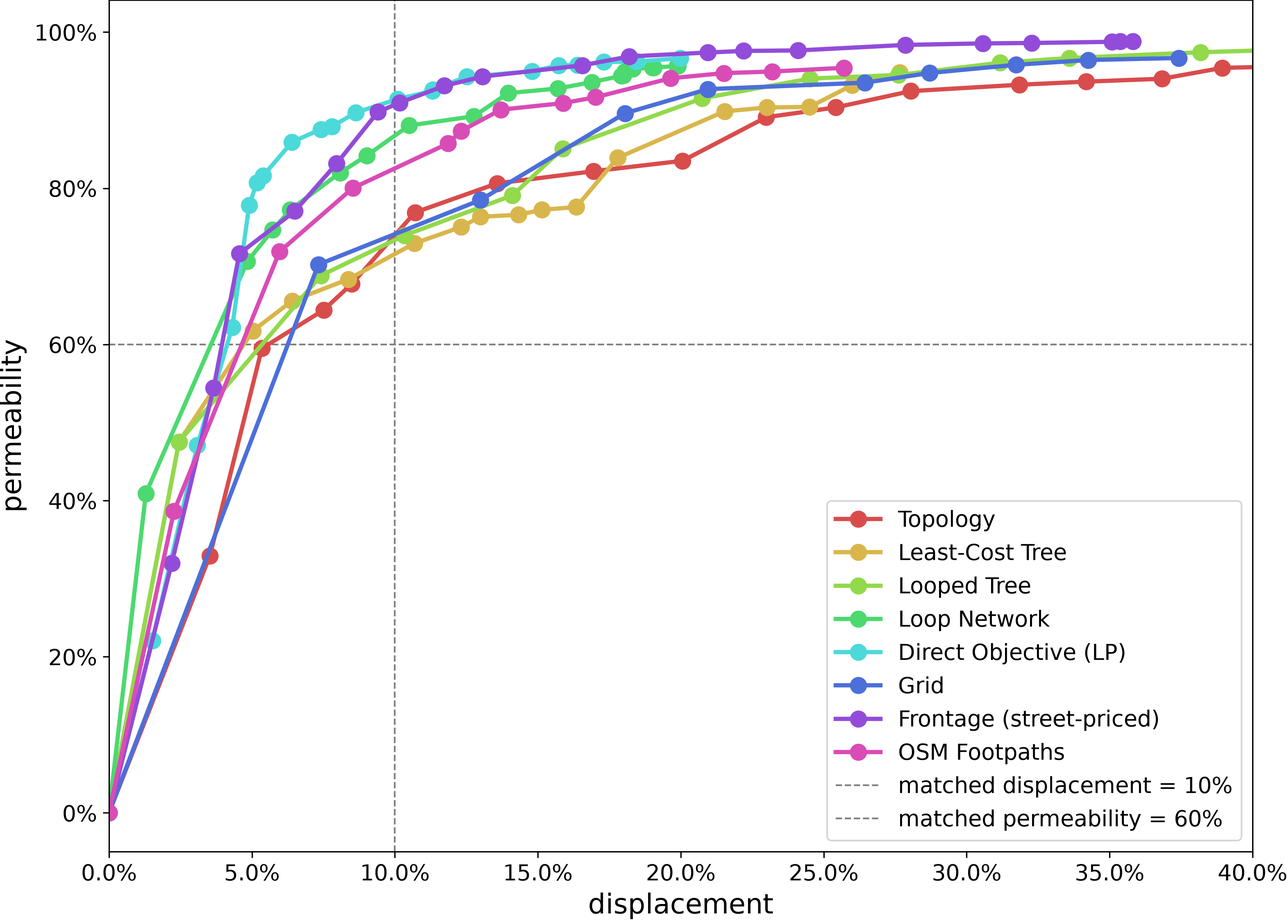
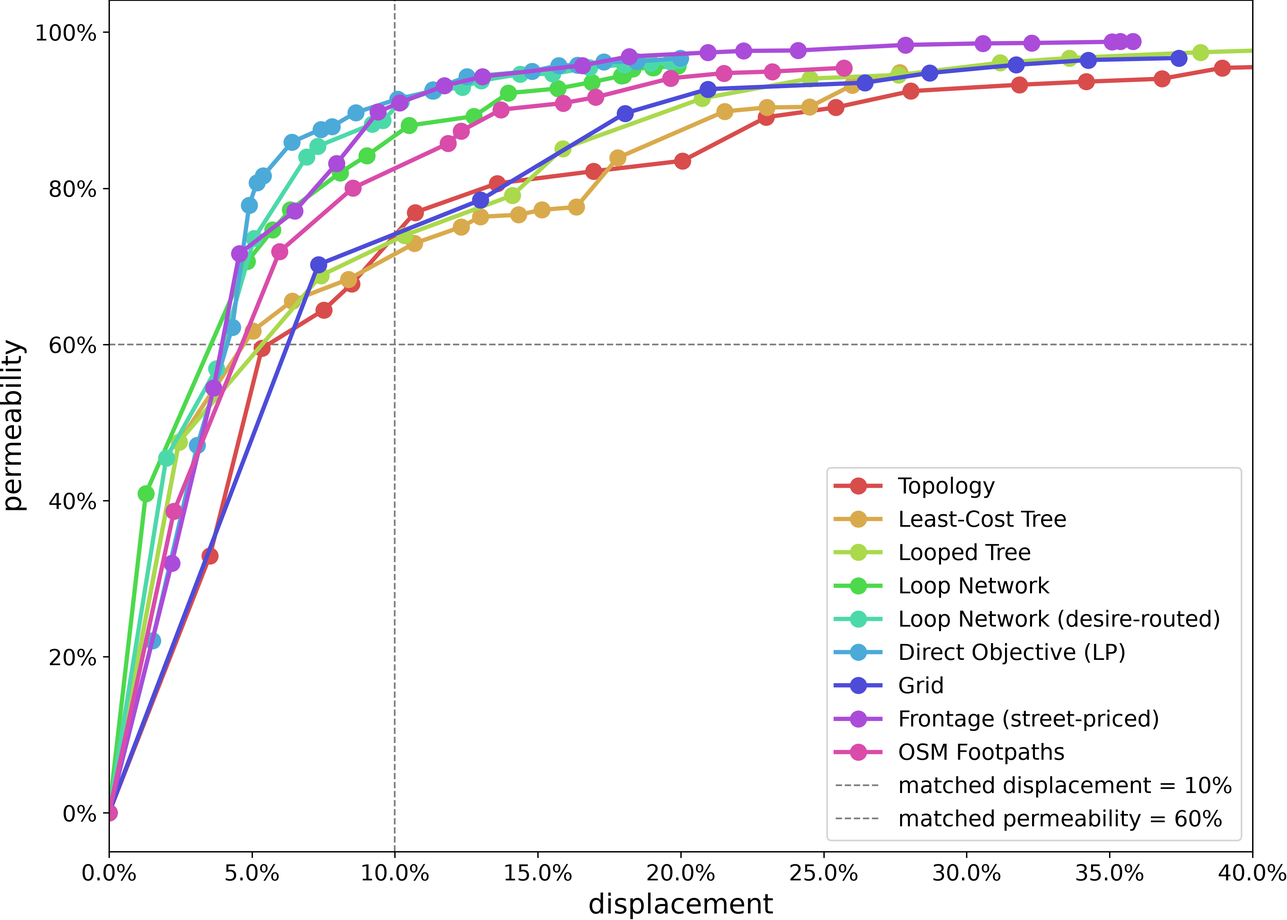
The desire-routed Loop Network joins the examples; regenerated cold
cycle_native_betweenness_contrast runs in depth_density (Cape Town and
Nairobi), method_comparison and explore (and explore_small, its parity
fixture), beside plain cycle_native so the field's lift is visible. It
gets a site page and a display name, "Loop Network (desire-routed)".

Regenerated from a cold cache (the Block and Proposal identity fixes
changed every key). Counts that had been typed into tests now come from
the config.

Claude-Session: https://claude.ai/code/session_01RoNpoEMZ1kz2hogCsAsmXJ

diff --git a/scripts/gen_site_pages.py b/scripts/gen_site_pages.py
@@ -1136,6 +1136,20 @@ METHODS = [
       "reads as a strong second to the LP rather than as the different thing it is.",
       idea="the cycle, not the spur — bridgeless by construction",
       mc_key="cycle_native", mb_key="cycle_native", conf="cycle_native"),
+    M("cycle_native_betweenness_contrast", "Loop Network (desire-routed)",
+      "The Loop Network, with each candidate loop routed along the lanes people would walk. "
+      "Before any road is placed, every home's best walking route — to the street, and to every "
+      "other home — is traced through the gaps between buildings, with routes that pay for "
+      "turning and keep their distance from walls. Where many routes run, beyond what the same "
+      "block with its buildings removed would send there, the ground is a desire line.\n\n"
+      "The routing grid is then made cheaper along those lines, so the two paths of every "
+      "candidate loop bend toward them. What gets built is still the Loop Network's choice — "
+      "each loop is scored by permeability gain per home displaced — only the shape of the "
+      "candidates follows the lanes. The pull is deliberately gentle: a stronger one drags roads "
+      "off the best loops.",
+      idea="the Loop Network, its loops bent toward where people would walk",
+      mc_key="cycle_native_betweenness_contrast", mb_key="cycle_native_betweenness_contrast",
+      conf="cycle_native_betweenness_contrast"),
     M("topology", "Topology",
       "The prior art: a whole-graph reblocker that solves the block in one shot rather than adding "
       "roads greedily. It is **single-block only** — a multi-block region gives it a disconnected "

diff --git a/tests/test_example_block.py b/tests/test_example_block.py
@@ -52,9 +52,9 @@ def test_pin_is_declared_once() -> None:
 
 
 def test_example_method_names_includes_osm_footpaths() -> None:
-    """`conf/example/explore.yaml` declares five methods; `osm_footpaths` -- the real as-built
+    """`conf/example/explore.yaml` declares its methods; `osm_footpaths` -- the real as-built
     informal network, injected from a committed OSM snapshot exactly as
-    scripts/gen_example.py:175-182 injects it -- is the sixth, and the reference the whole
+    scripts/gen_example.py:175-182 injects it -- is one more, and the reference the whole
     comparison is measured against, not a competitor. A loader that only reads the declared list
     silently returns five; this is the guard against exactly that.
 
@@ -71,6 +71,6 @@ def test_example_method_names_includes_osm_footpaths() -> None:
 
     names = example_method_names()
     assert set(names) == {
-        "clearance_looped", "euclidean_grid", "cycle_native",
+        "clearance_looped", "euclidean_grid", "cycle_native", "cycle_native_betweenness_contrast",
         "greedy_arterial_access_displacement", "osm_footpaths",
     }

diff --git a/tests/test_frontier_bundle.py b/tests/test_frontier_bundle.py
@@ -43,12 +43,11 @@ def bundle() -> dict[str, Any]:
 
 
 def test_every_curve_is_internally_consistent(bundle: dict[str, Any]) -> None:
-    # 5, not 8: the bundle is baked from `_example_block.py`'s pin, which moved to the `explore`
-    # variant on 2026-09-20. That variant runs four methods plus the `osm_footpaths` reference;
-    # the 8 was `method_comparison`'s seven-plus-reference, and `method_comparison` keeps the two
-    # this block cannot run -- `topology` (NodeNotFound at 6,619 parcels) and `resistance_lp`
-    # (dropped for a 6.2 m mean segment; see conf/example/explore.yaml).
-    assert len(bundle["methods"]) == 5
+    # The bundle is baked from `_example_block.py`'s pin, the `explore` variant: exactly its
+    # methods plus the `osm_footpaths` reference, read from the config rather than typed here.
+    from scripts._example_block import example_method_names
+
+    assert set(bundle["methods"]) == set(example_method_names())
     for name, c in bundle["methods"].items():
         n = len(c["road_m"])
         assert len(c["displacement"]) == len(c["permeability"]) == n, name

diff --git a/tests/test_gen_site_pages.py b/tests/test_gen_site_pages.py
@@ -102,7 +102,7 @@ def test_published_method_count_is_generated_not_typed() -> None:
     # is used in prose -- e.g. a comment explaining what the kwarg does -- and silently miscounts.
     published = len(re.findall(r'^    M\("[a-z_]+"', src, flags=re.M)) - len(
         re.findall(r'M\("[a-z_]+"[^)]*?published=False', src, flags=re.S))
-    assert published == 10, f"expected 10 published methods, registry says {published}"
+    assert published == 11, f"expected 11 published methods, registry says {published}"
     intro = (ROOT / "docs" / "_partials" / "intro.md").read_text(encoding="utf-8")
     assert "<!-- METHODCOUNT -->" in intro
     # Every word _COUNT_WORDS could produce, both cases -- not a hand-picked subset. A hardcoded

diff --git a/scripts/_example_block.py b/scripts/_example_block.py
@@ -43,7 +43,7 @@ PINNED_METHOD = "clearance_looped"
 # The TEST fixture: the same pipeline on a 263-parcel block. Parity tests pass this rather than
 # re-deriving the shipped 6,619-parcel artifact, which MEASURED at 2,882 s of a 2,895 s test --
 # `tests/conftest.py` gives every session a cold `REBLOCK_CACHE_DIR` by design, so nothing is
-# cached across runs and every method is re-proposed. Same five methods, same order, ~105 s.
+# cached across runs and every method is re-proposed. Same methods, same order.
 # See `conf/example/explore_small.yaml` for the measurements and for why it is not
 # `method_comparison` (topology, 377 s on this block, which `explore` does not run).
 TEST_VARIANT = "explore_small"

diff --git a/src/reblock/method_labels.py b/src/reblock/method_labels.py
@@ -18,6 +18,7 @@ FRIENDLY_METHOD_NAMES = {
     "resistance_greedy": "Direct Objective",
     "resistance_lp": "Direct Objective (LP)",
     "cycle_native": "Loop Network",
+    "cycle_native_betweenness_contrast": "Loop Network (desire-routed)",
     "flow_paths": "Worn Paths",
     "flow_paths_noreinforce": "Worn Paths (no feedback)",
 }

diff --git a/examples/method-comparison/README.md b/examples/method-comparison/README.md
@@ -20,9 +20,9 @@ The frontier is the whole trade-off: **permeability** (benefit — the only bene
 
 **Watch each method reblock** — roads added busiest-first, each preceded by whatever it needs to reach the street, so every frame is a network you could actually build. Every animation stops where its network first reaches the matched-permeability standard, so they end at the same benefit and you can read the disruption each one spent getting there; a method that never reaches it runs to its own full network. The deep interior drains as the network reaches in:
 
-| Least-Cost Tree | Looped Tree | Loop Network | Grid | Frontage (street-priced) | OSM Footpaths | Direct Objective (LP) | Topology |
-|---|---|---|---|---|---|---|---|
-| ![Least-Cost Tree](reblock_clearance.gif) | ![Looped Tree](reblock_clearance_looped.gif) | ![Loop Network](reblock_cycle_native.gif) | ![Grid](reblock_euclidean_grid.gif) | ![Frontage (street-priced)](reblock_greedy_arterial_access_displacement.gif) | ![OSM Footpaths](reblock_osm_footpaths.gif) | ![Direct Objective (LP)](reblock_resistance_lp.gif) | ![Topology](reblock_topology.gif) |
+| Least-Cost Tree | Looped Tree | Loop Network | Loop Network (desire-routed) | Grid | Frontage (street-priced) | OSM Footpaths | Direct Objective (LP) | Topology |
+|---|---|---|---|---|---|---|---|---|
+| ![Least-Cost Tree](reblock_clearance.gif) | ![Looped Tree](reblock_clearance_looped.gif) | ![Loop Network](reblock_cycle_native.gif) | ![Loop Network (desire-routed)](reblock_cycle_native_betweenness_contrast.gif) | ![Grid](reblock_euclidean_grid.gif) | ![Frontage (street-priced)](reblock_greedy_arterial_access_displacement.gif) | ![OSM Footpaths](reblock_osm_footpaths.gif) | ![Direct Objective (LP)](reblock_resistance_lp.gif) | ![Topology](reblock_topology.gif) |
 
 ### Matched permeability (primary)
 
@@ -32,6 +32,7 @@ Every method truncated where permeability first reaches the standard target, so 
 |---|---|---|---|---|
 | Looped Tree | 83 m | 4.8% | 60.7% |  |
 | Least-Cost Tree | 89 m | 5.0% | 61.7% |  |
+| Loop Network (desire-routed) | 146 m | 5.1% | 73.6% |  |
 | Loop Network | 89 m | 3.5% | 61.8% |  |
 | Grid | 130 m | 7.3% | 70.2% |  |
 | Frontage (street-priced) | 178 m | 4.3% | 63.9% |  |
@@ -43,15 +44,15 @@ Every method truncated where permeability first reaches the standard target, so 
 
 Access-depth coloring:
 
-| Looped Tree | Least-Cost Tree | Loop Network | Grid | Frontage (street-priced) | OSM Footpaths | Direct Objective (LP) | Topology |
-|---|---|---|---|---|---|---|---|
-| ![Looped Tree](after_clearance_looped_perm_depth.png) | ![Least-Cost Tree](after_clearance_perm_depth.png) | ![Loop Network](after_cycle_native_perm_depth.png) | ![Grid](after_euclidean_grid_perm_depth.png) | ![Frontage (street-priced)](after_greedy_arterial_access_displacement_perm_depth.png) | ![OSM Footpaths](after_osm_footpaths_perm_depth.png) | ![Direct Objective (LP)](after_resistance_lp_perm_depth.png) | ![Topology](after_topology_perm_depth.png) |
+| Looped Tree | Least-Cost Tree | Loop Network (desire-routed) | Loop Network | Grid | Frontage (street-priced) | OSM Footpaths | Direct Objective (LP) | Topology |
+|---|---|---|---|---|---|---|---|---|
+| ![Looped Tree](after_clearance_looped_perm_depth.png) | ![Least-Cost Tree](after_clearance_perm_depth.png) | ![Loop Network (desire-routed)](after_cycle_native_betweenness_contrast_perm_depth.png) | ![Loop Network](after_cycle_native_perm_depth.png) | ![Grid](after_euclidean_grid_perm_depth.png) | ![Frontage (street-priced)](after_greedy_arterial_access_displacement_perm_depth.png) | ![OSM Footpaths](after_osm_footpaths_perm_depth.png) | ![Direct Objective (LP)](after_resistance_lp_perm_depth.png) | ![Topology](after_topology_perm_depth.png) |
 
 Permeability-potential coloring:
 
-| Looped Tree | Least-Cost Tree | Loop Network | Grid | Frontage (street-priced) | OSM Footpaths | Direct Objective (LP) | Topology |
-|---|---|---|---|---|---|---|---|
-| ![Looped Tree](after_clearance_looped_perm_perm.png) | ![Least-Cost Tree](after_clearance_perm_perm.png) | ![Loop Network](after_cycle_native_perm_perm.png) | ![Grid](after_euclidean_grid_perm_perm.png) | ![Frontage (street-priced)](after_greedy_arterial_access_displacement_perm_perm.png) | ![OSM Footpaths](after_osm_footpaths_perm_perm.png) | ![Direct Objective (LP)](after_resistance_lp_perm_perm.png) | ![Topology](after_topology_perm_perm.png) |
+| Looped Tree | Least-Cost Tree | Loop Network (desire-routed) | Loop Network | Grid | Frontage (street-priced) | OSM Footpaths | Direct Objective (LP) | Topology |
+|---|---|---|---|---|---|---|---|---|
+| ![Looped Tree](after_clearance_looped_perm_perm.png) | ![Least-Cost Tree](after_clearance_perm_perm.png) | ![Loop Network (desire-routed)](after_cycle_native_betweenness_contrast_perm_perm.png) | ![Loop Network](after_cycle_native_perm_perm.png) | ![Grid](after_euclidean_grid_perm_perm.png) | ![Frontage (street-priced)](after_greedy_arterial_access_displacement_perm_perm.png) | ![OSM Footpaths](after_osm_footpaths_perm_perm.png) | ![Direct Objective (LP)](after_resistance_lp_perm_perm.png) | ![Topology](after_topology_perm_perm.png) |
 
 ### Matched displacement (secondary)
 
@@ -61,6 +62,7 @@ Every method truncated to the same displacement %, so this compares the **permea
 |---|---|---|---|---|
 | Least-Cost Tree | 191 m | 10.7% | 72.9% |  |
 | Looped Tree | 177 m | 10.3% | 74.0% |  |
+| Loop Network (desire-routed) | 380 m | 10.2% | 91.1% |  |
 | Loop Network | 335 m | 10.5% | 88.0% |  |
 | Grid | 218 m | 13.0% | 78.5% |  |
 | Frontage (street-priced) | 493 m | 10.2% | 91.0% |  |
@@ -72,15 +74,15 @@ Every method truncated to the same displacement %, so this compares the **permea
 
 Access-depth coloring:
 
-| Least-Cost Tree | Looped Tree | Loop Network | Grid | Frontage (street-priced) | OSM Footpaths | Direct Objective (LP) | Topology |
-|---|---|---|---|---|---|---|---|
-| ![Least-Cost Tree](after_clearance_disp_depth.png) | ![Looped Tree](after_clearance_looped_disp_depth.png) | ![Loop Network](after_cycle_native_disp_depth.png) | ![Grid](after_euclidean_grid_disp_depth.png) | ![Frontage (street-priced)](after_greedy_arterial_access_displacement_disp_depth.png) | ![OSM Footpaths](after_osm_footpaths_disp_depth.png) | ![Direct Objective (LP)](after_resistance_lp_disp_depth.png) | ![Topology](after_topology_disp_depth.png) |
+| Least-Cost Tree | Looped Tree | Loop Network (desire-routed) | Loop Network | Grid | Frontage (street-priced) | OSM Footpaths | Direct Objective (LP) | Topology |
+|---|---|---|---|---|---|---|---|---|
+| ![Least-Cost Tree](after_clearance_disp_depth.png) | ![Looped Tree](after_clearance_looped_disp_depth.png) | ![Loop Network (desire-routed)](after_cycle_native_betweenness_contrast_disp_depth.png) | ![Loop Network](after_cycle_native_disp_depth.png) | ![Grid](after_euclidean_grid_disp_depth.png) | ![Frontage (street-priced)](after_greedy_arterial_access_displacement_disp_depth.png) | ![OSM Footpaths](after_osm_footpaths_disp_depth.png) | ![Direct Objective (LP)](after_resistance_lp_disp_depth.png) | ![Topology](after_topology_disp_depth.png) |
 
 Permeability-potential coloring:
 
-| Least-Cost Tree | Looped Tree | Loop Network | Grid | Frontage (street-priced) | OSM Footpaths | Direct Objective (LP) | Topology |
-|---|---|---|---|---|---|---|---|
-| ![Least-Cost Tree](after_clearance_disp_perm.png) | ![Looped Tree](after_clearance_looped_disp_perm.png) | ![Loop Network](after_cycle_native_disp_perm.png) | ![Grid](after_euclidean_grid_disp_perm.png) | ![Frontage (street-priced)](after_greedy_arterial_access_displacement_disp_perm.png) | ![OSM Footpaths](after_osm_footpaths_disp_perm.png) | ![Direct Objective (LP)](after_resistance_lp_disp_perm.png) | ![Topology](after_topology_disp_perm.png) |
+| Least-Cost Tree | Looped Tree | Loop Network (desire-routed) | Loop Network | Grid | Frontage (street-priced) | OSM Footpaths | Direct Objective (LP) | Topology |
+|---|---|---|---|---|---|---|---|---|
+| ![Least-Cost Tree](after_clearance_disp_perm.png) | ![Looped Tree](after_clearance_looped_disp_perm.png) | ![Loop Network (desire-routed)](after_cycle_native_betweenness_contrast_disp_perm.png) | ![Loop Network](after_cycle_native_disp_perm.png) | ![Grid](after_euclidean_grid_disp_perm.png) | ![Frontage (street-priced)](after_greedy_arterial_access_displacement_disp_perm.png) | ![OSM Footpaths](after_osm_footpaths_disp_perm.png) | ![Direct Objective (LP)](after_resistance_lp_disp_perm.png) | ![Topology](after_topology_disp_perm.png) |
 
 
 ## How this was generated

diff --git a/examples/nairobi/multiblock_depth_density/README.md b/examples/nairobi/multiblock_depth_density/README.md
@@ -37,9 +37,9 @@ The frontier is the whole trade-off: **permeability** (benefit — the only bene
 
 **Watch each method reblock** — roads added busiest-first, each preceded by whatever it needs to reach the street, so every frame is a network you could actually build. Every animation stops where its network first reaches the matched-permeability standard, so they end at the same benefit and you can read the disruption each one spent getting there; a method that never reaches it runs to its own full network. The deep interior drains as the network reaches in:
 
-| Looped Tree | Loop Network | Grid | Frontage (street-priced) | OSM Footpaths |
-|---|---|---|---|---|
-| ![Looped Tree](reblock_clearance_looped.gif) | ![Loop Network](reblock_cycle_native.gif) | ![Grid](reblock_euclidean_grid.gif) | ![Frontage (street-priced)](reblock_greedy_arterial_access_displacement.gif) | ![OSM Footpaths](reblock_osm_footpaths.gif) |
+| Looped Tree | Loop Network | Loop Network (desire-routed) | Grid | Frontage (street-priced) | OSM Footpaths |
+|---|---|---|---|---|---|
+| ![Looped Tree](reblock_clearance_looped.gif) | ![Loop Network](reblock_cycle_native.gif) | ![Loop Network (desire-routed)](reblock_cycle_native_betweenness_contrast.gif) | ![Grid](reblock_euclidean_grid.gif) | ![Frontage (street-priced)](reblock_greedy_arterial_access_displacement.gif) | ![OSM Footpaths](reblock_osm_footpaths.gif) |
 
 ### Matched permeability (primary)
 
@@ -48,6 +48,7 @@ Every method truncated where permeability first reaches the standard target, so 
 | Method | Road | Displacement | Permeability | Note |
 |---|---|---|---|---|
 | Looped Tree | 1,801 m | 2.5% | 60.6% |  |
+| Loop Network (desire-routed) | 2,154 m | 1.8% | 60.2% |  |
 | Loop Network | 1,836 m | 2.1% | 60.4% |  |
 | Grid | 2,282 m | 2.5% | 61.5% |  |
 | Frontage (street-priced) | 4,178 m | 2.3% | 61.4% |  |
@@ -56,15 +57,15 @@ Every method truncated where permeability first reaches the standard target, so 
 
 Access-depth coloring:
 
-| Looped Tree | Loop Network | Grid | Frontage (street-priced) | OSM Footpaths |
-|---|---|---|---|---|
-| ![Looped Tree](after_clearance_looped_perm_depth.png) | ![Loop Network](after_cycle_native_perm_depth.png) | ![Grid](after_euclidean_grid_perm_depth.png) | ![Frontage (street-priced)](after_greedy_arterial_access_displacement_perm_depth.png) | ![OSM Footpaths](after_osm_footpaths_perm_depth.png) |
+| Looped Tree | Loop Network (desire-routed) | Loop Network | Grid | Frontage (street-priced) | OSM Footpaths |
+|---|---|---|---|---|---|
+| ![Looped Tree](after_clearance_looped_perm_depth.png) | ![Loop Network (desire-routed)](after_cycle_native_betweenness_contrast_perm_depth.png) | ![Loop Network](after_cycle_native_perm_depth.png) | ![Grid](after_euclidean_grid_perm_depth.png) | ![Frontage (street-priced)](after_greedy_arterial_access_displacement_perm_depth.png) | ![OSM Footpaths](after_osm_footpaths_perm_depth.png) |
 
 Permeability-potential coloring:
 
-| Looped Tree | Loop Network | Grid | Frontage (street-priced) | OSM Footpaths |
-|---|---|---|---|---|
-| ![Looped Tree](after_clearance_looped_perm_perm.png) | ![Loop Network](after_cycle_native_perm_perm.png) | ![Grid](after_euclidean_grid_perm_perm.png) | ![Frontage (street-priced)](after_greedy_arterial_access_displacement_perm_perm.png) | ![OSM Footpaths](after_osm_footpaths_perm_perm.png) |
+| Looped Tree | Loop Network (desire-routed) | Loop Network | Grid | Frontage (street-priced) | OSM Footpaths |
+|---|---|---|---|---|---|
+| ![Looped Tree](after_clearance_looped_perm_perm.png) | ![Loop Network (desire-routed)](after_cycle_native_betweenness_contrast_perm_perm.png) | ![Loop Network](after_cycle_native_perm_perm.png) | ![Grid](after_euclidean_grid_perm_perm.png) | ![Frontage (street-priced)](after_greedy_arterial_access_displacement_perm_perm.png) | ![OSM Footpaths](after_osm_footpaths_perm_perm.png) |
 
 ### Matched displacement (secondary)
 
@@ -73,6 +74,7 @@ Every method truncated to the same displacement %, so this compares the **permea
 | Method | Road | Displacement | Permeability | Note |
 |---|---|---|---|---|
 | Looped Tree | 8,944 m | 10.0% | 86.3% |  |
+| Loop Network (desire-routed) | 13,352 m | 10.0% | 90.5% |  |
 | Loop Network | 11,183 m | 10.0% | 88.2% |  |
 | Grid | 11,768 m | 8.8% | 82.1% | converged below budget |
 | Frontage (street-priced) | 17,243 m | 4.8% | 80.0% | converged below budget |
@@ -81,15 +83,15 @@ Every method truncated to the same displacement %, so this compares the **permea
 
 Access-depth coloring:
 
-| Looped Tree | Loop Network | Grid | Frontage (street-priced) | OSM Footpaths |
-|---|---|---|---|---|
-| ![Looped Tree](after_clearance_looped_disp_depth.png) | ![Loop Network](after_cycle_native_disp_depth.png) | ![Grid](after_euclidean_grid_disp_depth.png) | ![Frontage (street-priced)](after_greedy_arterial_access_displacement_disp_depth.png) | ![OSM Footpaths](after_osm_footpaths_disp_depth.png) |
+| Looped Tree | Loop Network (desire-routed) | Loop Network | Grid | Frontage (street-priced) | OSM Footpaths |
+|---|---|---|---|---|---|
+| ![Looped Tree](after_clearance_looped_disp_depth.png) | ![Loop Network (desire-routed)](after_cycle_native_betweenness_contrast_disp_depth.png) | ![Loop Network](after_cycle_native_disp_depth.png) | ![Grid](after_euclidean_grid_disp_depth.png) | ![Frontage (street-priced)](after_greedy_arterial_access_displacement_disp_depth.png) | ![OSM Footpaths](after_osm_footpaths_disp_depth.png) |
 
 Permeability-potential coloring:
 
-| Looped Tree | Loop Network | Grid | Frontage (street-priced) | OSM Footpaths |
-|---|---|---|---|---|
-| ![Looped Tree](after_clearance_looped_disp_perm.png) | ![Loop Network](after_cycle_native_disp_perm.png) | ![Grid](after_euclidean_grid_disp_perm.png) | ![Frontage (street-priced)](after_greedy_arterial_access_displacement_disp_perm.png) | ![OSM Footpaths](after_osm_footpaths_disp_perm.png) |
+| Looped Tree | Loop Network (desire-routed) | Loop Network | Grid | Frontage (street-priced) | OSM Footpaths |
+|---|---|---|---|---|---|
+| ![Looped Tree](after_clearance_looped_disp_perm.png) | ![Loop Network (desire-routed)](after_cycle_native_betweenness_contrast_disp_perm.png) | ![Loop Network](after_cycle_native_disp_perm.png) | ![Grid](after_euclidean_grid_disp_perm.png) | ![Frontage (street-priced)](after_greedy_arterial_access_displacement_disp_perm.png) | ![OSM Footpaths](after_osm_footpaths_disp_perm.png) |
 
 
 ## How this was generated

diff --git a/examples/multiblock_depth_density/README.md b/examples/multiblock_depth_density/README.md
@@ -37,9 +37,9 @@ The frontier is the whole trade-off: **permeability** (benefit — the only bene
 
 **Watch each method reblock** — roads added busiest-first, each preceded by whatever it needs to reach the street, so every frame is a network you could actually build. Every animation stops where its network first reaches the matched-permeability standard, so they end at the same benefit and you can read the disruption each one spent getting there; a method that never reaches it runs to its own full network. The deep interior drains as the network reaches in:
 
-| Looped Tree | Loop Network | Grid | Frontage (street-priced) | OSM Footpaths |
-|---|---|---|---|---|
-| ![Looped Tree](reblock_clearance_looped.gif) | ![Loop Network](reblock_cycle_native.gif) | ![Grid](reblock_euclidean_grid.gif) | ![Frontage (street-priced)](reblock_greedy_arterial_access_displacement.gif) | ![OSM Footpaths](reblock_osm_footpaths.gif) |
+| Looped Tree | Loop Network | Loop Network (desire-routed) | Grid | Frontage (street-priced) | OSM Footpaths |
+|---|---|---|---|---|---|
+| ![Looped Tree](reblock_clearance_looped.gif) | ![Loop Network](reblock_cycle_native.gif) | ![Loop Network (desire-routed)](reblock_cycle_native_betweenness_contrast.gif) | ![Grid](reblock_euclidean_grid.gif) | ![Frontage (street-priced)](reblock_greedy_arterial_access_displacement.gif) | ![OSM Footpaths](reblock_osm_footpaths.gif) |
 
 ### Matched permeability (primary)
 
@@ -48,6 +48,7 @@ Every method truncated where permeability first reaches the standard target, so 
 | Method | Road | Displacement | Permeability | Note |
 |---|---|---|---|---|
 | Looped Tree | 2,297 m | 2.8% | 60.8% |  |
+| Loop Network (desire-routed) | 1,762 m | 0.7% | 60.4% |  |
 | Loop Network | 1,817 m | 1.7% | 66.9% |  |
 | Grid | 2,113 m | 3.0% | 65.6% |  |
 | Frontage (street-priced) | 2,677 m | 0.8% | 60.5% |  |
@@ -56,15 +57,15 @@ Every method truncated where permeability first reaches the standard target, so 
 
 Access-depth coloring:
 
-| Looped Tree | Loop Network | Grid | Frontage (street-priced) | OSM Footpaths |
-|---|---|---|---|---|
-| ![Looped Tree](after_clearance_looped_perm_depth.png) | ![Loop Network](after_cycle_native_perm_depth.png) | ![Grid](after_euclidean_grid_perm_depth.png) | ![Frontage (street-priced)](after_greedy_arterial_access_displacement_perm_depth.png) | ![OSM Footpaths](after_osm_footpaths_perm_depth.png) |
+| Looped Tree | Loop Network (desire-routed) | Loop Network | Grid | Frontage (street-priced) | OSM Footpaths |
+|---|---|---|---|---|---|
+| ![Looped Tree](after_clearance_looped_perm_depth.png) | ![Loop Network (desire-routed)](after_cycle_native_betweenness_contrast_perm_depth.png) | ![Loop Network](after_cycle_native_perm_depth.png) | ![Grid](after_euclidean_grid_perm_depth.png) | ![Frontage (street-priced)](after_greedy_arterial_access_displacement_perm_depth.png) | ![OSM Footpaths](after_osm_footpaths_perm_depth.png) |
 
 Permeability-potential coloring:
 
-| Looped Tree | Loop Network | Grid | Frontage (street-priced) | OSM Footpaths |
-|---|---|---|---|---|
-| ![Looped Tree](after_clearance_looped_perm_perm.png) | ![Loop Network](after_cycle_native_perm_perm.png) | ![Grid](after_euclidean_grid_perm_perm.png) | ![Frontage (street-priced)](after_greedy_arterial_access_displacement_perm_perm.png) | ![OSM Footpaths](after_osm_footpaths_perm_perm.png) |
+| Looped Tree | Loop Network (desire-routed) | Loop Network | Grid | Frontage (street-priced) | OSM Footpaths |
+|---|---|---|---|---|---|
+| ![Looped Tree](after_clearance_looped_perm_perm.png) | ![Loop Network (desire-routed)](after_cycle_native_betweenness_contrast_perm_perm.png) | ![Loop Network](after_cycle_native_perm_perm.png) | ![Grid](after_euclidean_grid_perm_perm.png) | ![Frontage (street-priced)](after_greedy_arterial_access_displacement_perm_perm.png) | ![OSM Footpaths](after_osm_footpaths_perm_perm.png) |
 
 ### Matched displacement (secondary)
 
@@ -73,6 +74,7 @@ Every method truncated to the same displacement %, so this compares the **permea
 | Method | Road | Displacement | Permeability | Note |
 |---|---|---|---|---|
 | Looped Tree | 7,997 m | 10.1% | 78.8% |  |
+| Loop Network (desire-routed) | 14,663 m | 10.0% | 92.6% |  |
 | Loop Network | 10,348 m | 10.0% | 92.5% |  |
 | Grid | 7,330 m | 9.4% | 89.2% | converged below budget |
 | Frontage (street-priced) | 11,592 m | 3.5% | 82.1% | converged below budget |
@@ -81,15 +83,15 @@ Every method truncated to the same displacement %, so this compares the **permea
 
 Access-depth coloring:
 
-| Looped Tree | Loop Network | Grid | Frontage (street-priced) | OSM Footpaths |
-|---|---|---|---|---|
-| ![Looped Tree](after_clearance_looped_disp_depth.png) | ![Loop Network](after_cycle_native_disp_depth.png) | ![Grid](after_euclidean_grid_disp_depth.png) | ![Frontage (street-priced)](after_greedy_arterial_access_displacement_disp_depth.png) | ![OSM Footpaths](after_osm_footpaths_disp_depth.png) |
+| Looped Tree | Loop Network (desire-routed) | Loop Network | Grid | Frontage (street-priced) | OSM Footpaths |
+|---|---|---|---|---|---|
+| ![Looped Tree](after_clearance_looped_disp_depth.png) | ![Loop Network (desire-routed)](after_cycle_native_betweenness_contrast_disp_depth.png) | ![Loop Network](after_cycle_native_disp_depth.png) | ![Grid](after_euclidean_grid_disp_depth.png) | ![Frontage (street-priced)](after_greedy_arterial_access_displacement_disp_depth.png) | ![OSM Footpaths](after_osm_footpaths_disp_depth.png) |
 
 Permeability-potential coloring:
 
-| Looped Tree | Loop Network | Grid | Frontage (street-priced) | OSM Footpaths |
-|---|---|---|---|---|
-| ![Looped Tree](after_clearance_looped_disp_perm.png) | ![Loop Network](after_cycle_native_disp_perm.png) | ![Grid](after_euclidean_grid_disp_perm.png) | ![Frontage (street-priced)](after_greedy_arterial_access_displacement_disp_perm.png) | ![OSM Footpaths](after_osm_footpaths_disp_perm.png) |
+| Looped Tree | Loop Network (desire-routed) | Loop Network | Grid | Frontage (street-priced) | OSM Footpaths |
+|---|---|---|---|---|---|
+| ![Looped Tree](after_clearance_looped_disp_perm.png) | ![Loop Network (desire-routed)](after_cycle_native_betweenness_contrast_disp_perm.png) | ![Loop Network](after_cycle_native_disp_perm.png) | ![Grid](after_euclidean_grid_disp_perm.png) | ![Frontage (street-priced)](after_greedy_arterial_access_displacement_disp_perm.png) | ![OSM Footpaths](after_osm_footpaths_disp_perm.png) |
 
 
 ## How this was generated
